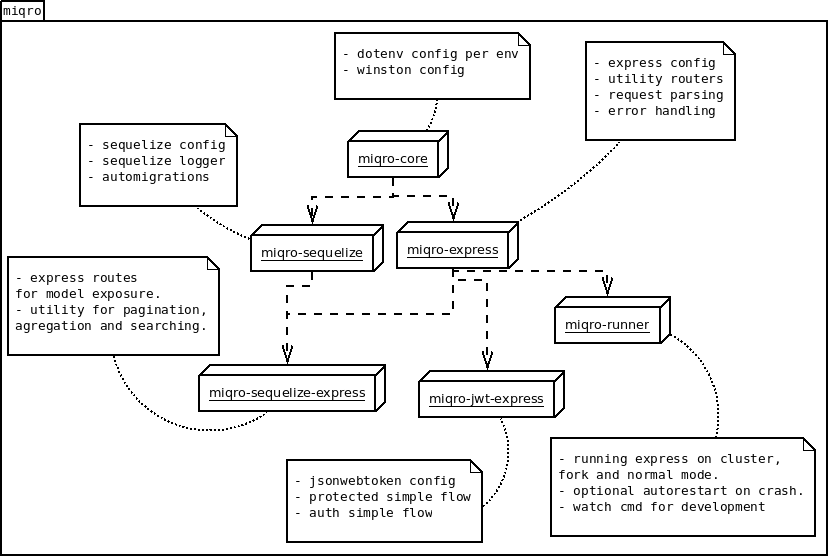
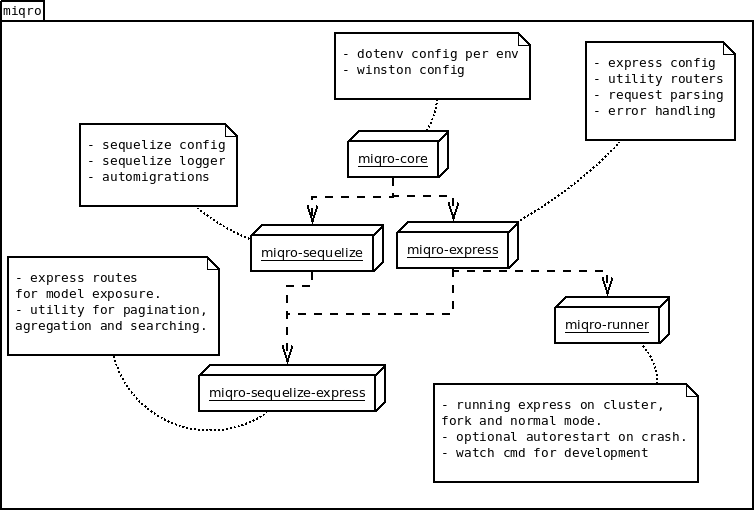
miqro-jwt-express and miqro-runner removed

Changed region(s): [[0.0, 0.0, 1.0, 1.0], [0.6702, 0.3125, 0.7007, 0.3438], [0.6397, 0.3438, 0.6702, 0.375]]

diff --git a/src/index.ts b/src/index.ts
@@ -1,6 +1,4 @@
 export * from "miqro-core";
 export * from "miqro-sequelize";
 export * from "miqro-express";
-export * from "miqro-jwt-express";
 export * from "miqro-sequelize-express";
-export * from "miqro-runner";

diff --git a/README.md b/README.md
@@ -10,7 +10,7 @@ little framework for creating microservices with **express**, **sequelize** and 
 
 - utilities for creating services and routes for direct model **pagination**, **searching** and **agregation**.
 
-- utility for implementing a very simple flow of **authentication** and **validation** using **jsonwebtoken** module.
+- Utility route for validating tokens.
 
 - runner with autorestart for cluster, fork and debug ( no autorestart in debug ).
 
@@ -77,7 +77,7 @@ create a empty nodejs project.
 
 inits a miqro service configurations
 
-```$ npx miqro init posts.js```
+```$ npx miqro-runner init posts.js```
 
 **NOTE** this is only needed once
 
@@ -143,7 +143,9 @@ module.exports = (sequelize, DataTypes) => {
 
 now lets take care of the tables for the development database.
 
-```npx miqro automigrate posts.js```
+```npm install miqro-sequelize --save```
+
+```node_modules/.bin/miqro-db automigrate posts.js```
 
 **take notice that the last argument is the service script not a model in particular.**
 
@@ -151,15 +153,17 @@ now lets take care of the tables for the development database.
 
 **makemigrations and migrate commands also exists for doing this steps apart.**
 
-finally lets review the newly generated dotenv configuration file for your **$NODE_ENV**( by default is **development** ) located in ```config/development.env```. This file holds the configuration environment variables miqro uses to configure every component like database and jwt. **Its is encouraged to load the passwords. secrets and other sensible information from a secret manager into the process.env.**
+finally lets review the newly generated dotenv configuration file for your **$NODE_ENV**( by default is **development** ) located in ```config/development.env```. This file holds the configuration environment variables miqro uses to configure every component like database and express. **Its is encouraged to load the passwords. secrets and other sensible information from a secret manager into the process.env.**
 
 then start a node inspect/debug friendly mode.
 
-```npx miqro start posts.js```
+```npx miqro-runner start posts.js```
 
 or directly with node inspect 
 
-```node inspect node_modules/.bin/miqro start posts.js```
+```npm install miqro-runner --save-dev```
+
+```node inspect node_modules/.bin/miqro-runner start posts.js```
 
 **usefull for some IDE's with node debug support like VSCode**
 
@@ -167,7 +171,7 @@ You can also start the service in a cluster mode for better performance with the
 
 example.
 
-```npx miqro start 4 cluster posts.js```
+```npx miqro-runner start 4 cluster posts.js```
 
 this will create 4 processes running your service in a node cluster.
 
@@ -205,92 +209,6 @@ const { name, id, aliases } = Util.parseOptions("body", body, [
 
 in case a the body doesnt pass the parseOptions function the route will return a **BadRequestResponse** with a message like ```body.name not a string!``` automatically.
 
-## jwt
-
-miqro provides a very simple implementation of jwt using the **jsonwebtoken** module. Like every piece of miqro the use of this is optional. 
-
-**NOTE** it's recommended that you put a API Gateway or Managment software ( like KONG ) on top of your miqroservices than implementing authentication directly on your service.
-
-#### setup jwt_header, jwt_secret and default expiration
-
-edit your ```$MIQRO_DIRNAME/config/$NODE_ENV.env``` file and look at the following variables.
-
-```dotenv
-JWT_HEADER=#the header to be used for the token
-JWT_SECRET=#the secret for signing the token better to load it from a secret manager
-JWT_EXPIRATION=#the default expiration of the signed tokens
-```
-
-#### create a simple jwt protected route
-
-a protected route is a route that can only be access with a valid token. the token must be in the incoming **request header** called like the **JWT_HEADER** env variable. 
-
-the **JWT_HEADER** env variable can be set in the ```$MIQRO_DIRNAME/config/$NODE_ENV.env``` dotenv file.
-
-```javascript
-...
-const { ProtectedRoute } = require("miqro");
-...
-// create a protected route and add some protected routes
-// keep in mind that only the token will be validated
-const api = new ProtectedRoute()
-  .use("/user", new ModelRoute(new ModelService(db.models.user)));
-...
-// attach route
-app.use("/api/v1", api.routes());
-```
-
-#### create a simple jwt auth route
-
-a auth route is a route that can only be access with a valid token with the except of the [POST][/authenticate] path. the token must be in the incoming **request header** called like the **JWT_HEADER** env variable.
-
-the **JWT_HEADER** env variable can be set in the ```$MIQRO_DIRNAME/config/$NODE_ENV.env``` dotenv file.
-
-```javascript
-...
-const { AuthRoute } = require("miqro");
-...
-const api = new AuthRoute({
-  auth: {
-    authenticate: async (req) => {
-      // Use req to authenticate 
-      return {
-        account: "account",
-        username: "user",
-        groups: ["group1", "group2"]
-      }; // OR NULL/undefined/false for a an invalid authenticate
-    },
-    onAuthenticate: async (session) => {
-      // posible store the token in db for manual invalidation ?
-    }
-  }
-});
-...
-// attach route
-app.use("/api/v1/auth", api.routes());
-```
-
-#### create a custom protected route
-
-```javascript
-...
-const { ProtectedRoute } = require("miqro");
-...
-// create a protected route and add some protected routes
-// keep in mind that only the token will be validated
-const api = new ProtectedRoute({
-  auth: {
-    verify: async (session) => {
-      return true; // OR NULL/undefined/false for a an invalid session
-    }
-  }
-})
-  .use("/user", new ModelRoute(new ModelService(db.models.user)));
-...
-// attach route
-app.use("/api/v1", api.routes());
-```
-
 ## using miqro without the runner
 
 you should be able to run your microservice without the miqro runner simply defining the ```MIQRO_DIRNAME``` env variable so that the components of **miqro** you are using will be able to **find** the config **dotenv files**.
@@ -307,7 +225,7 @@ then create a ```main.js``` creating a simple express server.
 ```javascript
 const express = require("express");
 const { Util, setupMiddleware } = require("miqro");
-// process.env.MIQRO_DIRNAME must exists!
+process.env.MIQRO_DIRNAME=__dirname;
 Util.loadConfig();
 
 const logger = Util.getLogger("main.js");
@@ -331,23 +249,31 @@ then run it
 
 miqro has its own runner with auto-restart and can start your service in a **cluster**, **fork** or simple mode for debugging purposes.
 
+first install the module
+
+```npm install miqro-runner --save```
+
+or as a dev deps if only you want it for development
+
+```npm install miqro-runner --save-dev```
+
 usage 
 
-```miqro start [nodes=1] [mode=simple] <microservice.js>```
+```miqro-runner start [nodes=1] [mode=simple] <microservice.js>```
 
 example start in simple node
 
-```miqro start posts.js```
+```miqro-runner start posts.js```
 
 **simple mode is usefull for running the service in a debug environment like node inspect**
 
 example start with 4 cluster nodes
 
-```miqro start 4 cluster posts.js```
+```miqro-runner start 4 cluster posts.js```
 
 example start in fork node
 
-```miqro start fork posts.js```
+```miqro-runner start fork posts.js```
 
 ## stripping dendencies in your app
 
@@ -358,15 +284,13 @@ to provide all the features miqro depends on alot of modules. But there is a fix
 
 miqro's module ```index.ts```
 ```javascript
-export * from "miqro-core"; // logger(winston), config files(dotenv)
-export * from "miqro-express"; // basic routers and error handler utilities
-export * from "miqro-sequelize"; // Database(sequelize), automigrations(sequelize-auto-migrations), migrations(sequelize-cli), seed(sequelize-cli) and miqro-db
-export * from "miqro-sequelize-express"; // ModelRoute, ModelService, pagination, agregation and searching
-export * from "miqro-runner"; // the miqro runner
-export * from "miqro-jwt-express"; // simple jwt flow implementation
+export * from "miqro-core";
+export * from "miqro-sequelize";
+export * from "miqro-express";
+export * from "miqro-sequelize-express";
 ```
 
-so if you dont want to use sequelize as your ORM or to have jsonwebtoken as a dependency, instead of using the adding ```miqro``` to your application dependencies, you can use just the modules you want. For minimal support you can just use the ```miqro-core``` that just provides the bare bone minimals (app configuration per env and logger support via winston).
+so if you dont want to use sequelize as your ORM or to have X as a dependency, instead of using the adding ```miqro``` to your application dependencies, you can use just the modules you want. For minimal support you can just use the ```miqro-core``` that just provides the bare bone minimals (app configuration per env and logger support via winston).
 
 ## database migrations
 
@@ -385,6 +309,8 @@ TODO
 TODO
 
 ## runner cli
+
+```npm install miqro-runner --save```
 
 ```miqro-runner <command> [args..]```
 
